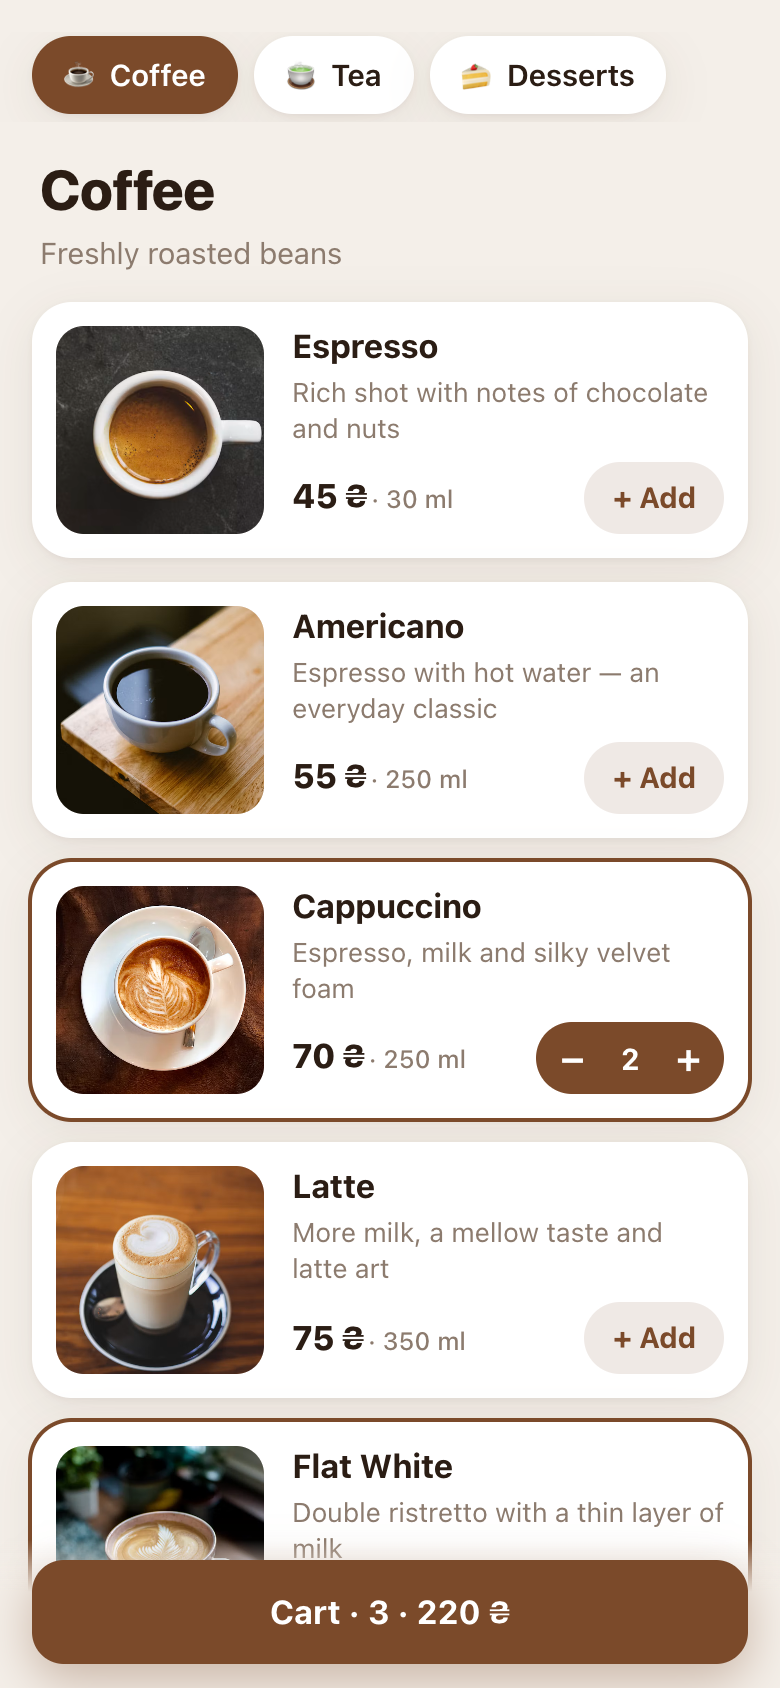
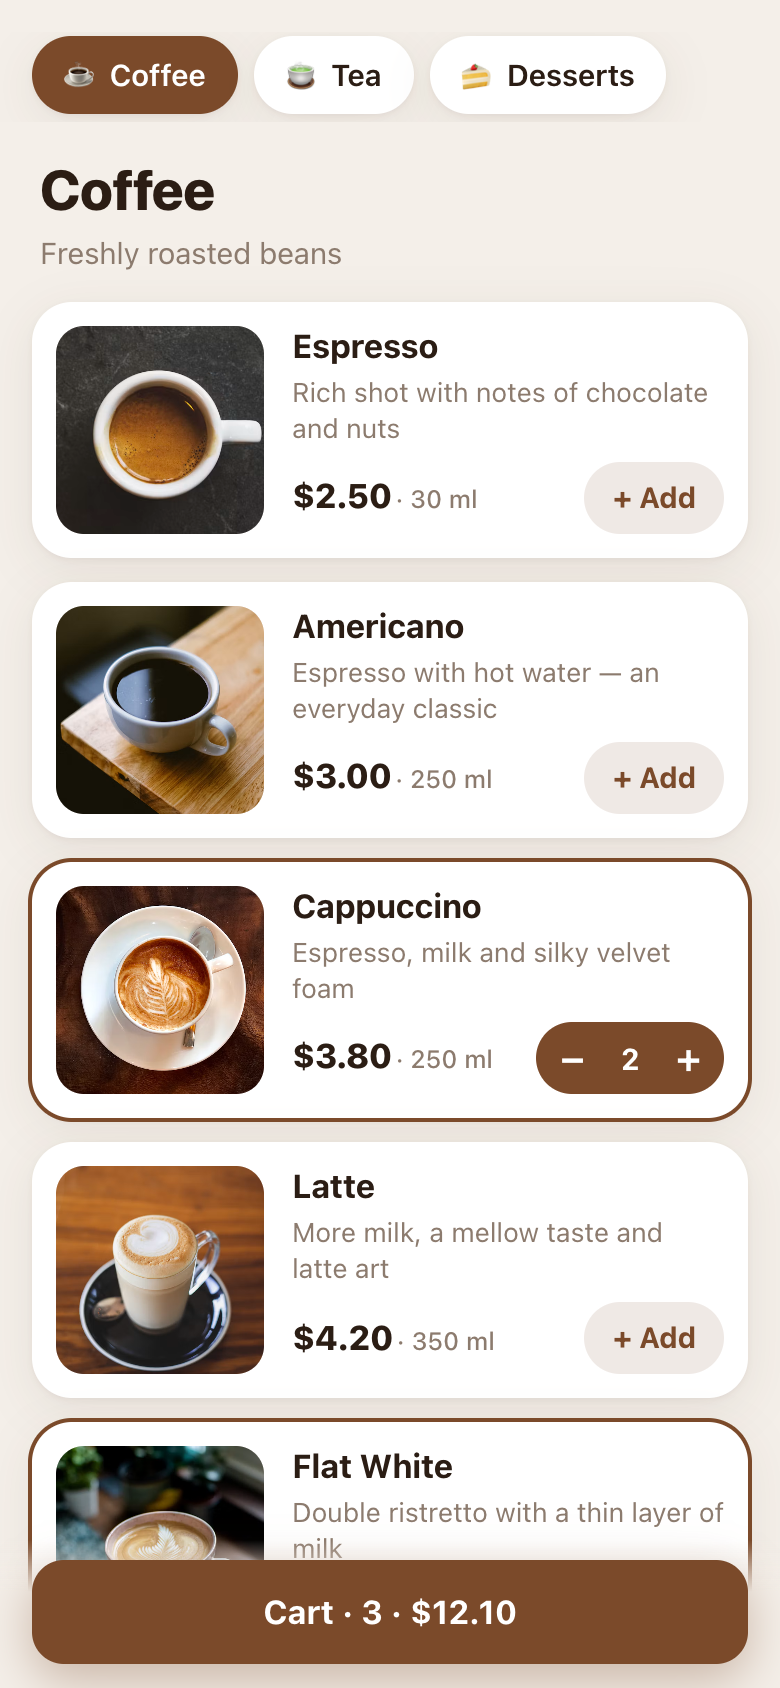
Switch prices to USD (stored in cents), retake screenshots

diff --git a/webapp/products.js b/webapp/products.js
@@ -1,6 +1,7 @@
 /*
  * Демо-меню кав'ярні.
- * Ціни в гривнях (₴). Бот має ту саму таблицю цін і рахує суму сам —
+ * Ціни в доларах США, записані в ЦЕНТАХ (380 = $3.80) — цілі числа без похибок округлення.
+ * Бот має ту саму таблицю цін і рахує суму сам —
  * ціни звідси використовуються лише для показу в інтерфейсі.
  * Фото: Unsplash (https://unsplash.com/license), джерела — у README.md.
  */
@@ -37,7 +38,7 @@ window.PRODUCTS = [
   {
     id: 'espresso',
     category: 'coffee',
-    price: 45,
+    price: 250,
     size: { uk: '30 мл', en: '30 ml' },
     name: { uk: 'Еспресо', en: 'Espresso' },
     description: {
@@ -49,7 +50,7 @@ window.PRODUCTS = [
   {
     id: 'americano',
     category: 'coffee',
-    price: 55,
+    price: 300,
     size: { uk: '250 мл', en: '250 ml' },
     name: { uk: 'Американо', en: 'Americano' },
     description: {
@@ -61,7 +62,7 @@ window.PRODUCTS = [
   {
     id: 'cappuccino',
     category: 'coffee',
-    price: 70,
+    price: 380,
     size: { uk: '250 мл', en: '250 ml' },
     name: { uk: 'Капучино', en: 'Cappuccino' },
     description: {
@@ -73,7 +74,7 @@ window.PRODUCTS = [
   {
     id: 'latte',
     category: 'coffee',
-    price: 75,
+    price: 420,
     size: { uk: '350 мл', en: '350 ml' },
     name: { uk: 'Лате', en: 'Latte' },
     description: {
@@ -85,7 +86,7 @@ window.PRODUCTS = [
   {
     id: 'flat_white',
     category: 'coffee',
-    price: 80,
+    price: 450,
     size: { uk: '200 мл', en: '200 ml' },
     name: { uk: 'Флет вайт', en: 'Flat White' },
     description: {
@@ -99,7 +100,7 @@ window.PRODUCTS = [
   {
     id: 'black_tea',
     category: 'tea',
-    price: 50,
+    price: 280,
     size: { uk: '400 мл', en: '400 ml' },
     name: { uk: 'Чорний чай', en: 'Black Tea' },
     description: {
@@ -111,7 +112,7 @@ window.PRODUCTS = [
   {
     id: 'green_tea',
     category: 'tea',
-    price: 55,
+    price: 300,
     size: { uk: '400 мл', en: '400 ml' },
     name: { uk: 'Зелений чай з м’ятою', en: 'Green Tea with Mint' },
     description: {
@@ -123,7 +124,7 @@ window.PRODUCTS = [
   {
     id: 'matcha_latte',
     category: 'tea',
-    price: 90,
+    price: 490,
     size: { uk: '300 мл', en: '300 ml' },
     name: { uk: 'Матча лате', en: 'Matcha Latte' },
     description: {
@@ -137,7 +138,7 @@ window.PRODUCTS = [
   {
     id: 'croissant',
     category: 'desserts',
-    price: 65,
+    price: 320,
     size: { uk: '90 г', en: '90 g' },
     name: { uk: 'Круасан', en: 'Croissant' },
     description: {
@@ -149,7 +150,7 @@ window.PRODUCTS = [
   {
     id: 'cheesecake',
     category: 'desserts',
-    price: 95,
+    price: 550,
     size: { uk: '130 г', en: '130 g' },
     name: { uk: 'Чизкейк з чорницею', en: 'Blueberry Cheesecake' },
     description: {
@@ -161,7 +162,7 @@ window.PRODUCTS = [
   {
     id: 'chocolate_cake',
     category: 'desserts',
-    price: 90,
+    price: 520,
     size: { uk: '120 г', en: '120 g' },
     name: { uk: 'Шоколадний торт', en: 'Chocolate Cake' },
     description: {
@@ -173,7 +174,7 @@ window.PRODUCTS = [
   {
     id: 'macarons',
     category: 'desserts',
-    price: 120,
+    price: 600,
     size: { uk: '3 шт.', en: '3 pcs' },
     name: { uk: 'Макарони', en: 'Macarons' },
     description: {

diff --git a/webapp/app.js b/webapp/app.js
@@ -14,7 +14,7 @@
   // Мову бот передає в адресі кнопки: ...?lang=uk (initData з користувачем може не бути)
   const URL_LANG = new URLSearchParams(window.location.search).get('lang') || '';
 
-  const CURRENCY = '₴';
+  const CURRENCY = 'USD'; // ціни в products.js — у центах
   const MAX_QTY = 20;
   const OPEN_HOUR = 8;
   const CLOSE_HOUR = 21;
@@ -209,7 +209,8 @@
     return n === 1 ? forms[0] : forms[1];
   }
 
-  const money = (n) => `${n.toLocaleString(lang === 'uk' ? 'uk-UA' : 'en-US')} ${CURRENCY}`;
+  // 380 (центів) → "$3.80". Формат однаковий для обох мов.
+  const money = (cents) => (cents / 100).toLocaleString('en-US', { style: 'currency', currency: CURRENCY });
 
   // ---------- 5. Тема ----------
   function applyTheme() {

diff --git a/webapp/index.html b/webapp/index.html
@@ -48,7 +48,7 @@
   <div id="toast" class="toast" role="status"></div>
 
   <!-- ?v=… — номер версії: змініть його після правок, щоб Telegram не брав старий файл з кешу -->
-  <script src="products.js?v=2"></script>
-  <script src="app.js?v=2"></script>
+  <script src="products.js?v=5"></script>
+  <script src="app.js?v=5"></script>
 </body>
 </html>

diff --git a/bot/menu.py b/bot/menu.py
@@ -11,7 +11,7 @@ from dataclasses import dataclass
 
 @dataclass(frozen=True)
 class MenuItem:
-    price: int  # гривні
+    price: int  # у центах: 380 = $3.80
     uk: str
     en: str
 
@@ -21,18 +21,18 @@ class MenuItem:
 
 MENU: dict[str, MenuItem] = {
     # Кава
-    "espresso": MenuItem(45, "Еспресо", "Espresso"),
-    "americano": MenuItem(55, "Американо", "Americano"),
-    "cappuccino": MenuItem(70, "Капучино", "Cappuccino"),
-    "latte": MenuItem(75, "Лате", "Latte"),
-    "flat_white": MenuItem(80, "Флет вайт", "Flat White"),
+    "espresso": MenuItem(250, "Еспресо", "Espresso"),
+    "americano": MenuItem(300, "Американо", "Americano"),
+    "cappuccino": MenuItem(380, "Капучино", "Cappuccino"),
+    "latte": MenuItem(420, "Лате", "Latte"),
+    "flat_white": MenuItem(450, "Флет вайт", "Flat White"),
     # Чай
-    "black_tea": MenuItem(50, "Чорний чай", "Black Tea"),
-    "green_tea": MenuItem(55, "Зелений чай з м’ятою", "Green Tea with Mint"),
-    "matcha_latte": MenuItem(90, "Матча лате", "Matcha Latte"),
+    "black_tea": MenuItem(280, "Чорний чай", "Black Tea"),
+    "green_tea": MenuItem(300, "Зелений чай з м’ятою", "Green Tea with Mint"),
+    "matcha_latte": MenuItem(490, "Матча лате", "Matcha Latte"),
     # Десерти
-    "croissant": MenuItem(65, "Круасан", "Croissant"),
-    "cheesecake": MenuItem(95, "Чизкейк з чорницею", "Blueberry Cheesecake"),
-    "chocolate_cake": MenuItem(90, "Шоколадний торт", "Chocolate Cake"),
-    "macarons": MenuItem(120, "Макарони", "Macarons"),
+    "croissant": MenuItem(320, "Круасан", "Croissant"),
+    "cheesecake": MenuItem(550, "Чизкейк з чорницею", "Blueberry Cheesecake"),
+    "chocolate_cake": MenuItem(520, "Шоколадний торт", "Chocolate Cake"),
+    "macarons": MenuItem(600, "Макарони", "Macarons"),
 }

diff --git a/bot/handlers/order.py b/bot/handlers/order.py
@@ -10,7 +10,7 @@ from config import Config
 from db import Database
 from keyboards import menu_keyboard, status_keyboard
 from orders import OrderError, admin_card, client_receipt, parse_order
-from texts import lang_of, t
+from texts import lang_of, money, t
 
 router = Router(name="order")
 log = logging.getLogger(__name__)
@@ -35,7 +35,7 @@ async def on_web_app_data(message: Message, bot: Bot, config: Config, db: Databa
 
     # 2. Зберігаємо
     order_id = db.create_order(user.id, user.username, order)
-    log.info("Нове замовлення #%s на %s ₴ від %s", order_id, order.total, user.id)
+    log.info("Нове замовлення #%s на %s від %s", order_id, money(order.total), user.id)
 
     # 3. Підтвердження клієнту
     await message.answer(client_receipt(order_id, order), reply_markup=menu_keyboard(config.webapp_url, order.lang))

diff --git a/bot/texts.py b/bot/texts.py
@@ -79,5 +79,6 @@ def t(lang: str, key: str, **kwargs) -> str:
     return text.format(button=escape(MENU_BUTTON), address=CAFE_ADDRESS.get(lang, CAFE_ADDRESS["en"]), **kwargs)
 
 
-def money(amount: int) -> str:
-    return f"{amount:,}".replace(",", " ") + " ₴"
+def money(cents: int) -> str:
+    """380 (центів) → "$3.80". Ціни зберігаємо в центах — цілими числами без похибок."""
+    return f"${cents // 100:,}.{cents % 100:02d}"
